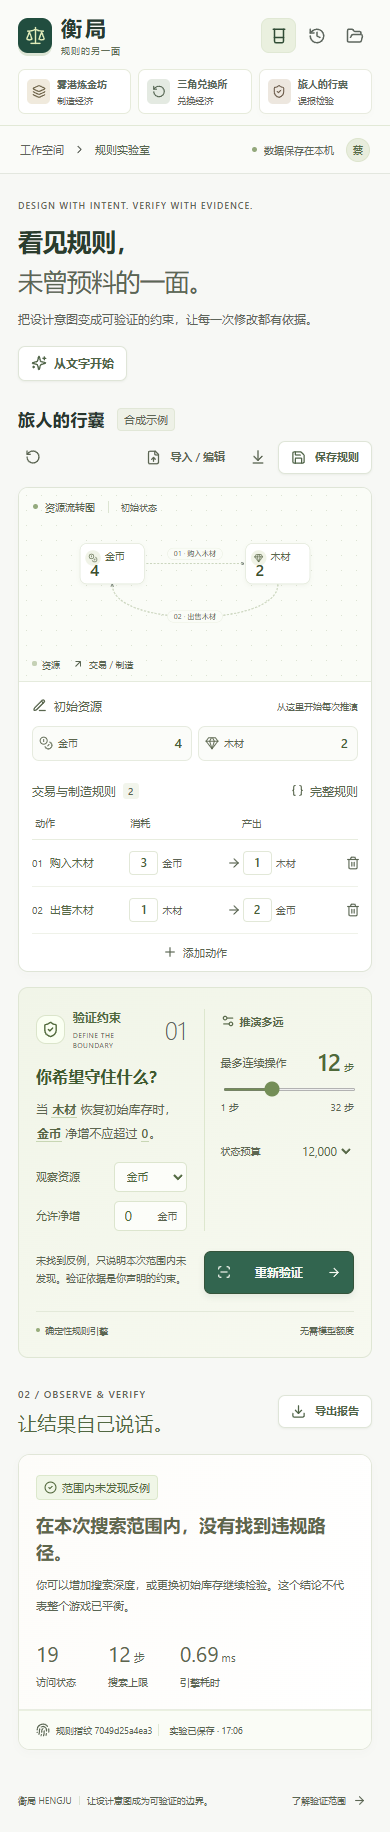
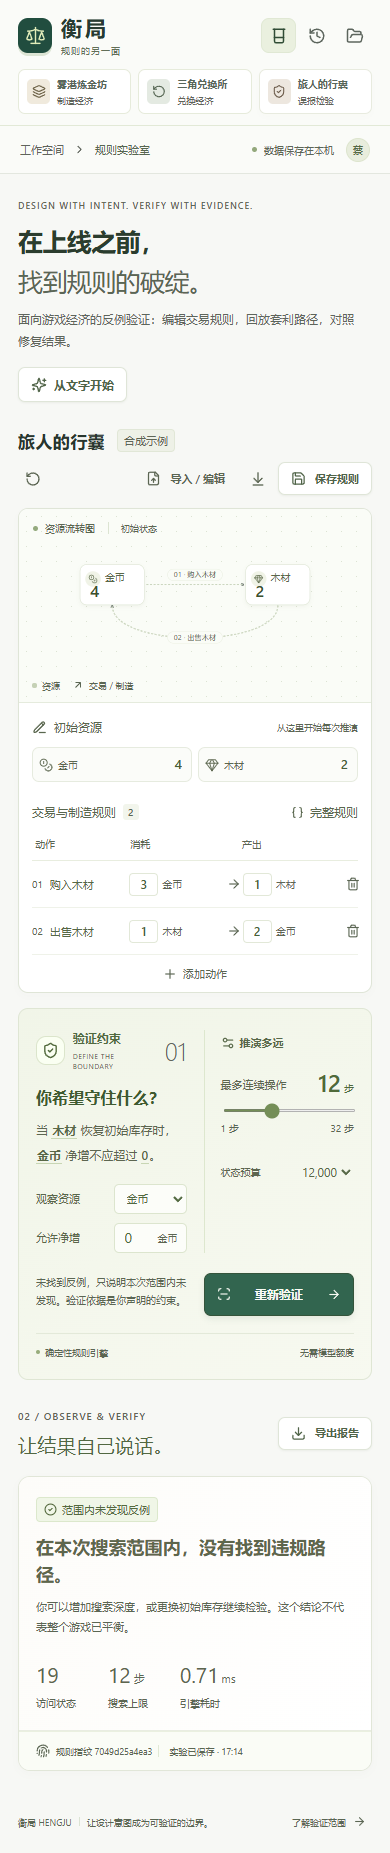
test: verify fresh-directory reproduction and expanded browser cases

diff --git a/tests/workbench.spec.ts b/tests/workbench.spec.ts
@@ -119,3 +119,39 @@ test('saved rules and the guide are navigable without losing the current draft',
   await page.reload();
   await expect(page.getByLabel('购买矿石消耗金币')).toHaveValue('4');
 });
+
+test('eight-resource imported model remains usable and finds a new eight-step witness', async ({
+  page,
+}) => {
+  const model = {
+    schemaVersion: 1,
+    title: '八资源兑换环',
+    description: '边界测试用合成输入',
+    resources: Array.from({ length: 8 }, (_, i) => ({
+      id: 'r' + i,
+      name: '资源' + i,
+      initial: i === 0 ? 1 : 0,
+    })),
+    actions: Array.from({ length: 8 }, (_, i) => ({
+      id: 'a' + i,
+      name: '兑换' + i,
+      cost: { ['r' + i]: 1 },
+      gain: { ['r' + ((i + 1) % 8)]: i === 7 ? 2 : 1 },
+    })),
+    contract: {
+      target: 'r0',
+      restore: Array.from({ length: 7 }, (_, i) => 'r' + (i + 1)),
+      allowedProfit: 0,
+    },
+  };
+  await page.getByRole('button', { name: '导入 / 编辑' }).click();
+  await page.getByLabel('完整规则 JSON').fill(JSON.stringify(model));
+  await page.getByRole('button', { name: '载入规则', exact: true }).click();
+  await expect(page.locator('.map-node')).toHaveCount(8);
+  await page.getByRole('button', { name: '开始验证', exact: true }).click();
+  await expect(page.getByRole('heading', { name: '8 步之后，资源0多出了 1。' })).toBeVisible();
+  await expect(page.locator('.trace-step')).toHaveCount(9);
+  expect(await page.evaluate(() => document.documentElement.scrollWidth <= window.innerWidth)).toBe(
+    true,
+  );
+});

diff --git a/src/App.tsx b/src/App.tsx
@@ -325,9 +325,9 @@ export default function App() {
                 <div>
                   <p className="eyebrow">DESIGN WITH INTENT. VERIFY WITH EVIDENCE.</p>
                   <h1>
-                    看见规则，<span>未曾预料的一面。</span>
+                    在上线之前，<span>找到规则的破绽。</span>
                   </h1>
-                  <p>把设计意图变成可验证的约束，让每一次修改都有依据。</p>
+                  <p>面向游戏经济的反例验证：编辑交易规则，回放套利路径，对照修复结果。</p>
                 </div>
                 <button
                   className="button button-secondary"

diff --git a/src/responsive.css b/src/responsive.css
@@ -858,3 +858,7 @@
 .economy-map-many > svg {
   max-height: 380px;
 }
+
+.sidebar-note small {
+  position: relative;
+}

diff --git a/README.md b/README.md
@@ -68,9 +68,9 @@ npm run test:e2e
 
 浏览器测试在 Windows 使用已安装的 Microsoft Edge；其他系统使用 Playwright Chromium，需要先执行 npx playwright install chromium。测试服务使用端口 4319 和独立目录 data/e2e，不写入使用者的项目数据库。
 
-最新本轮结果：11 项核心、API 和模型协议测试通过；5 项浏览器测试通过，覆盖完整流程、新输入、报告导出、草稿恢复、窄屏以及三种界面状态的 axe 自动检查。运行依赖 npm audit --omit=dev 未报告已知漏洞。自动检查不等于完整安全审计或完整 WCAG 认证。
+最新本轮结果：11 项核心、API 和模型协议测试通过；6 项浏览器测试通过，覆盖完整流程、新输入、报告导出、草稿恢复、窄屏以及三种界面状态的 axe 自动检查。运行依赖 npm audit --omit=dev 未报告已知漏洞。自动检查不等于完整安全审计或完整 WCAG 认证。
 
-复现计时与机器前提见 evidence/checks/reproduction.json（完成复现实测后生成）。技术说明见 docs/06-architecture.md。
+本机新项目目录复现耗时 26.189 秒，包含归档解压、安装、构建、11 项测试、启动与首次验证；Node/npm 已预装并使用现有 npm 缓存，不代表干净操作系统或首次下载耗时。具体计时与前提见 evidence/checks/reproduction.json。技术说明见 docs/06-architecture.md。
 
 ## 文件入口
 

diff --git a/evidence/iterations/002-working-laboratory.md b/evidence/iterations/002-working-laboratory.md
@@ -30,7 +30,7 @@
 
 - TypeScript 类型检查和 Vite 生产构建通过。
 - 11 项核心、API 和本机模型协议测试通过。
-- 5 项浏览器测试通过；包括 3 种界面状态的 axe 自动审计。
+- 6 项浏览器测试通过；包括 3 种界面状态的 axe 自动审计。
 - 桌面与手机截图已实际查看，检查裁切、流程和文字可读性。
 - 运行依赖审计未报告已知漏洞，不等同于完整安全审计。
 - 新项目目录复现另见 evidence/checks/reproduction.json；实测前提和缓存条件必须同时披露。
